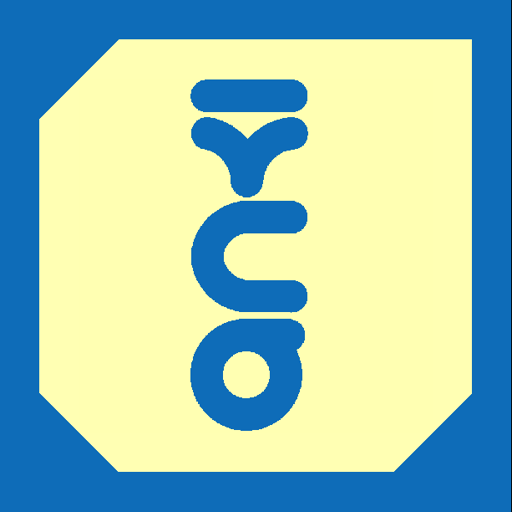
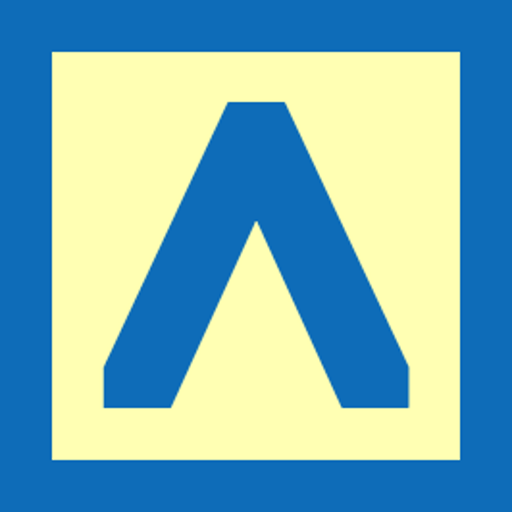
Mat localization (in simulation) now working again. - Reworked Webots mat creation - Added display of top green bar for matlab visualization

Changed region(s): [[0.1875, 0.1562, 0.8125, 0.8438], [0.0625, 0.0625, 0.9375, 0.9375]]

diff --git a/basestation/src/blockWorld.cpp b/basestation/src/blockWorld.cpp
@@ -76,33 +76,35 @@ namespace Anki
         
         // TODO: We need 9 different markers on the mat!
         
-        mat->AddMarker(Vision::MARKER_ANKILOGO, //{24, 24, 24, 16, 25, 49, 56, 9, 56, 48, 32},
-                       Pose3d(2.094395, {-0.577350,0.577350,-0.577350}, {-250.000000,250.000000,0.000000}),
-                       75);
-        mat->AddMarker(Vision::MARKER_ANKILOGO, //{35, 64, 70, 196, 140, 137, 8, 1, 48, 32, 34},
-                       Pose3d(-3.141593, {-0.000000,-0.707107,0.707107}, {0.000000,250.000000,0.000000}),
-                       75);
-        mat->AddMarker(Vision::MARKER_ANKILOGO, //{35, 64, 70, 196, 141, 137, 8, 1, 48, 32, 34},
-                       Pose3d(-3.141593, {-0.000000,-0.707107,0.707107}, {250.000000,250.000000,0.000000}),
-                       75);
-        mat->AddMarker(Vision::MARKER_ANKILOGO, //{24, 24, 24, 16, 24, 49, 56, 9, 56, 48, 32},
-                       Pose3d(2.094395, {-0.577350,0.577350,-0.577350}, {-250.000000,0.000000,0.000000}),
-                       75);
-        mat->AddMarker(Vision::MARKER_ANKILOGO, //{35, 98, 2, 196, 136, 9, 24, 0, 32, 34, 98},
+        mat->AddMarker(Vision::MARKER_A,
+                       Pose3d(1.570796, {-1.000000,0.000000,0.000000}, {-250.000000,250.000000,0.000000}),
+                       75.000000);
+        mat->AddMarker(Vision::MARKER_B,
+                       Pose3d(1.570796, {-1.000000,0.000000,0.000000}, {0.000000,250.000000,0.000000}),
+                       75.000000);
+        mat->AddMarker(Vision::MARKER_C,
+                       Pose3d(1.570796, {-1.000000,0.000000,0.000000}, {250.000000,250.000000,0.000000}),
+                       75.000000);
+        mat->AddMarker(Vision::MARKER_D,
+                       Pose3d(1.570796, {-1.000000,0.000000,0.000000}, {-250.000000,0.000000,0.000000}),
+                       75.000000);
+        mat->AddMarker(Vision::MARKER_E,
                        Pose3d(1.570796, {-1.000000,0.000000,0.000000}, {0.000000,0.000000,0.000000}),
-                       75);
-        mat->AddMarker(Vision::MARKER_ANKILOGO, //{8, 24, 24, 24, 8, 25, 56, 33, 56, 24, 48},
-                       Pose3d(2.094395, {-0.577350,-0.577350,0.577350}, {250.000000,0.000000,0.000000}),
-                       75);
-        mat->AddMarker(Vision::MARKER_ANKILOGO, //{35, 98, 2, 196, 137, 9, 24, 1, 32, 34, 98},
+                       75.000000);
+        mat->AddMarker(Vision::MARKER_F,
+                       Pose3d(1.570796, {-1.000000,0.000000,0.000000}, {250.000000,0.000000,0.000000}),
+                       75.000000);
+        mat->AddMarker(Vision::MARKER_G,
                        Pose3d(1.570796, {-1.000000,0.000000,0.000000}, {-250.000000,-250.000000,0.000000}),
-                       75);
-        mat->AddMarker(Vision::MARKER_ANKILOGO, //{35, 98, 2, 196, 136, 9, 24, 1, 32, 34, 98},
+                       75.000000);
+        mat->AddMarker(Vision::MARKER_J,
                        Pose3d(1.570796, {-1.000000,0.000000,0.000000}, {0.000000,-250.000000,0.000000}),
-                       75);
-        mat->AddMarker(Vision::MARKER_ANKILOGO, //{8, 24, 24, 24, 9, 25, 56, 33, 56, 24, 48},
-                       Pose3d(2.094395, {-0.577350,-0.577350,0.577350}, {250.000000,-250.000000,0.000000}),
-                       75);
+                       75.000000);
+        mat->AddMarker(Vision::MARKER_K,
+                       Pose3d(1.570796, {-1.000000,0.000000,0.000000}, {250.000000,-250.000000,0.000000}),
+                       75.000000);
+
+        
         
         matLibrary_.AddObject(mat);
       }

diff --git a/matlab/createWebotsMat.m b/matlab/createWebotsMat.m
@@ -1,4 +1,4 @@
-function createWebotsMat(images, numCorners, xgrid, ygrid, angles, sizes, markerLibrary, varargin)
+function createWebotsMat(images, numCorners, xgrid, ygrid, angles, sizes, names, varargin)
 
 ForegroundColor = [ 14 108 184]/255; % Anki light blue
 %BackgroundColor = [107 107 107]/255; % Anki light gray
@@ -57,15 +57,27 @@ fprintf(fid, '    }\n');
 
 set(gcf, 'Pos', [100 100 800 650]);
 
+FG = repmat(reshape(ForegroundColor, [1 1 3]), [512 512]);
+BG = repmat(reshape(BackgroundColor, [1 1 3]), [512 512]);
+
+codeString = cell(1,numel(images));
+
 for i = 1:numel(images)
         
-    markerImg = VisionMarker.DrawFiducial( ...
-        'Image', imrotate(images{i}, -angles(i)), ...
-        'NumCorners', numCorners(i), ...
-        'AddPadding', false, ...
-        'ForegroundColor', ForegroundColor, ...
-        'BackgroundColor', BackgroundColor);
+%     markerImg = VisionMarker.DrawFiducial( ...
+%         'Image', imrotate(images{i}, -angles(i)), ...
+%         'NumCorners', numCorners(i), ...
+%         'AddPadding', false, ...
+%         'ForegroundColor', ForegroundColor, ...
+%         'BackgroundColor', BackgroundColor);
+markerImg = VisionMarkerTrained.AddFiducial(images{i}, 'PadOutside', false, 'OutputSize', 512);
     
+if size(markerImg,3)==1
+    markerImg = markerImg(:,:,ones(1,3));
+end
+
+markerImg = (1-markerImg).*FG + markerImg.*BG;
+
     % Need this initial rotation b/c canonical VisionMarker orientation in
     % 3D is vertical, i.e. in the X-Z plane, for historical reasons.
     R_to_flat = rodrigues(-pi/2*[1 0 0]);
@@ -73,11 +85,16 @@ for i = 1:numel(images)
     pose = Pose(rodrigues(angles(i)*pi/180*[0 0 1])*R_to_flat, ...
         [xgrid(i) ygrid(i) -CozmoVisionProcessor.WHEEL_RADIUS]');
     
-    marker = VisionMarker(markerImg, 'Name', sprintf('ANKI-MAT-%d', i), ...
-        'Size', sizes(i), 'Pose', pose);
+axis = pose.axis;
+angle = pose.angle;
+T = pose.T;
+T(3)= 0;
+codeString{i} = sprintf(['mat->AddMarker(Vision::MARKER_%s,\n', ...
+    'Pose3d(%f, {%f,%f,%f}, {%f,%f,%f}),\n%f);\n'], ...
+    names{i}, angle, ...
+    axis(1), axis(2), axis(3), T(1), T(2), T(3), ...
+    sizes(i));
         
-    markerLibrary.AddMarker(marker);
-    
     filename = sprintf('ankiMat%d.png', i);
     imwrite(imresize(markerImg, [512 512]), fullfile(WorldDir, filename));
     
@@ -155,6 +172,11 @@ fprintf(fid, '    ]\n');
 fprintf(fid, '  }\n');
 fprintf(fid, '} # Solid\n\n');
 fprintf(fid, '} # Proto\n');
+
+% This will copy code to the clipboard that you can paste into BlockWorld 
+% constructor to create the markers for the mat with the correct pose
+clipboard('copy', [codeString{:}]);
+fprintf('\n\nCode copied to clipboard.\n\n');
 
 end % function createWebotsMat()
 

diff --git a/matlab/makeMatVisionMarkers.m b/matlab/makeMatVisionMarkers.m
@@ -1,48 +1,37 @@
-markerLibrary = VisionMarkerLibrary.Load();
 
-numCorners = [3 2 3; 
-              2 1 2; 
-              3 2 3];
-          
-angles = [-90   -180   -180;    
-          -90     0      90;
-            0     0      90];
-        
-xgrid  = [-250 0 250;
-          -250 0 250;
-          -250 0 250];
-      
-ygrid  = [ 250  250  250;
-             0    0    0;
-          -250 -250 -250];
-        
-%[xgrid, ygrid] = meshgrid([-250 0 250]);
-
-anki = imread('~/Box Sync/Cozmo SE/VisionMarkers/ankiLogo.png');
-
-createWebotsMat(anki, numCorners', xgrid', ygrid', angles', 75, markerLibrary);
-
-markerLibrary.Save();
-
-%% 
-% This will display code you can paste into BlockWorld constructor to
-% create the markers for the mat with the correct pose
-
-for i = 1:9
-    name = sprintf('ANKI-MAT-%d',i);
-    code = markerLibrary.GetMarkerByName(name).byteArray;
-    
-    fprintf('mat->AddMarker({%d', code(1));
-    for j = 2:length(code)
-        fprintf(', %d', code(j));
-    end
-    fprintf('},\n')
-    
-    axis = markerLibrary.GetMarkerByName(name).pose.axis;
-    angle = markerLibrary.GetMarkerByName(name).pose.angle;
-    T = markerLibrary.GetMarkerByName(name).pose.T;
-    T(3)= 0;
-    fprintf('Pose3d(%f, {%f,%f,%f}, {%f,%f,%f}),\n%f);\n', angle, ...
-        axis(1), axis(2), axis(3), T(1), T(2), T(3), ...
-        markerLibrary.GetMarkerByName(name).size);
+% markerLibrary = VisionMarkerLibrary.Load();
+%
+%         numCorners = [3 2 3;
+%             2 1 2;
+%             3 2 3];
+%         
+%         angles = [-90   -180   -180;
+%             -90     0      90;
+%             0     0      90];
+%         
+%         anki = imread('~/Box Sync/Cozmo SE/VisionMarkers/ankiLogo.png');
+     
+markerSize_mm = 75;
+matMarkerPath = '~/Box Sync/Cozmo SE/VisionMarkers/letters';
+fnames = {'A', 'B', 'C', 'D', 'E', 'F', 'G', 'J', 'K'};
+%fnames = getfnames('../robot/simulator/protos/textures/letters', '*.png', 'useFullPath', true);
+numImages = length(fnames);
+assert(numImages == 9, 'Expecting to find 9 images.');
+images = cell(3,3);
+for i = 1:length(fnames)
+    images{i} = imread(fullfile(matMarkerPath, [fnames{i} '.png']));
 end
+
+
+xgrid  = [-250 0 250;
+    -250 0 250;
+    -250 0 250];
+
+ygrid  = [ 250  250  250;
+    0    0    0;
+    -250 -250 -250];
+        
+createWebotsMat(images, numCorners', xgrid', ygrid', angles', markerSize_mm, fnames);
+
+%markerLibrary.Save();
+

diff --git a/robot/supervisor/src/visionSystem.cpp b/robot/supervisor/src/visionSystem.cpp
@@ -522,10 +522,15 @@ namespace MatlabVisualization
   {
     matlabViz_.PutQuad(corners, "detectedQuad");
     matlabViz_.EvalStringEcho("plot(detectedQuad([1 2 4 3 1],1)+1, "
-      "     detectedQuad([1 2 4 3 1],2)+1, "
-      "     'r', 'LineWidth', 2, "
-      "     'Parent', h_axes, "
-      "     'Tag', 'DetectedQuad');");
+                              "     detectedQuad([1 2 4 3 1],2)+1, "
+                              "     'r', 'LineWidth', 2, "
+                              "     'Parent', h_axes, "
+                              "     'Tag', 'DetectedQuad'); "
+                              "plot(detectedQuad([1 3],1)+1, "
+                              "     detectedQuad([1 3],2)+1, "
+                              "     'g', 'LineWidth', 2, "
+                              "     'Parent', h_axes, "
+                              "     'Tag', 'DetectedQuad');");
 
     return EXIT_SUCCESS;
   }

diff --git a/robot/simulator/hal/sim_hal.cpp b/robot/simulator/hal/sim_hal.cpp
@@ -473,6 +473,24 @@ namespace Anki {
       } else {
         MotorUpdate();
         RadioUpdate();
+        
+        // Always display ground truth pose:
+        {
+          const double* position = gps_->getValues();
+          const double* northVector = compass_->getValues();
+          
+          const f32 rad = std::atan2(-northVector[1], northVector[0]);
+          
+          char buffer[256];
+          snprintf(buffer, 256, "Robot %d Pose: (%.1f,%.1f,%.1f), %.1fdeg@(0,0,1)",
+                   robotID_,
+                   M_TO_MM(position[0]), M_TO_MM(position[1]), M_TO_MM(position[2]),
+                   RAD_TO_DEG(rad));
+          
+          std::string poseString(buffer);
+          webotRobot_.setLabel(robotID_, poseString, 0.5, robotID_*.05, .05, 0xff0000, 0.);
+        }
+        
         return EXIT_SUCCESS;
       }
       
